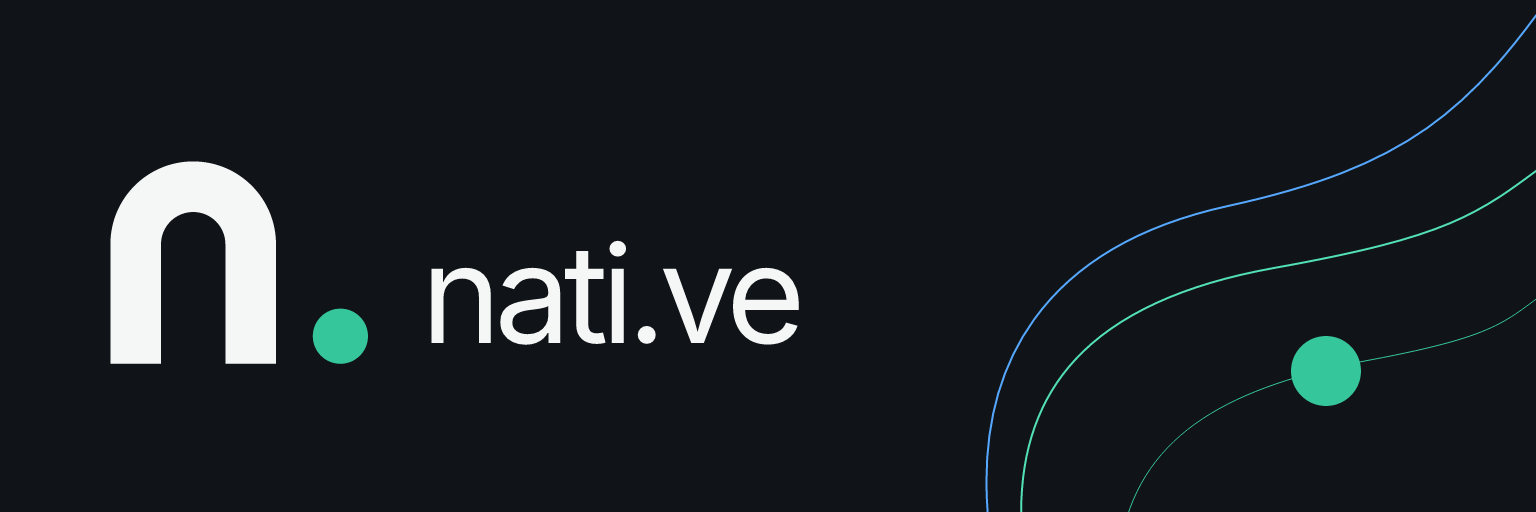
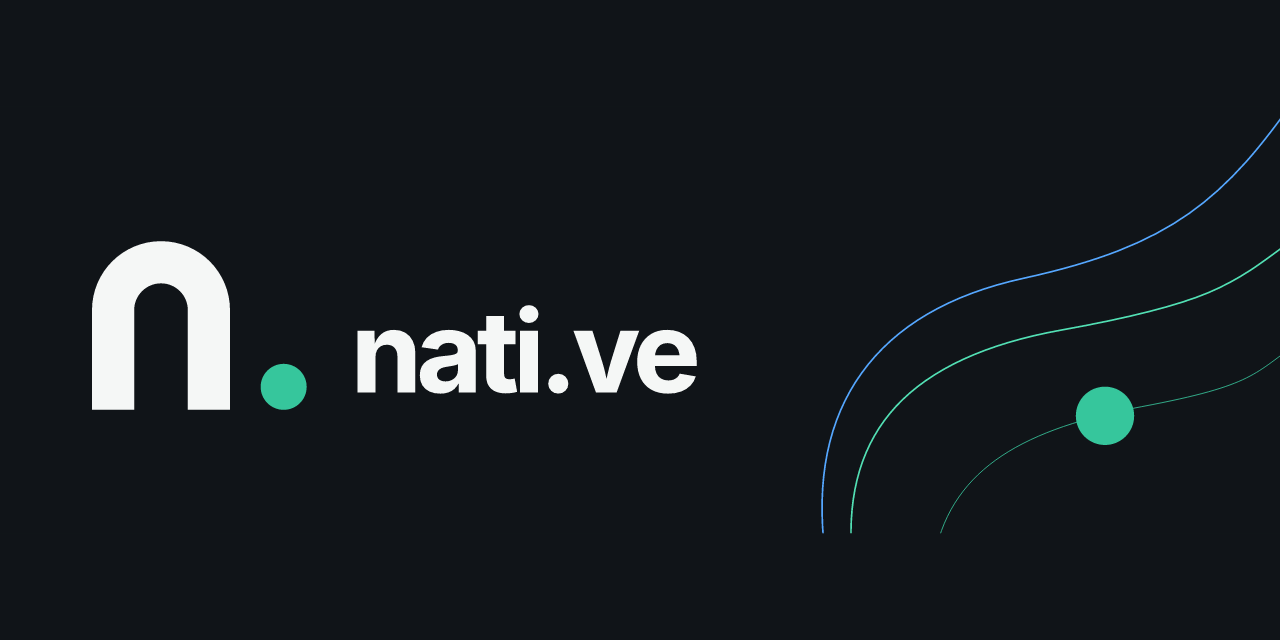
fix: preserve update compatibility and deterministic brand exports

diff --git a/ui/src/commonMain/kotlin/dev/obiente/nextcloudnative/app/ProjectNewsAndUpdates.kt b/ui/src/commonMain/kotlin/dev/obiente/nextcloudnative/app/ProjectNewsAndUpdates.kt
@@ -414,18 +414,18 @@ fun validateAndroidDirectRelease(
     )
     val tag = release.releaseTag(expectedChannel)
     require(
-        metadataUrl == expectedChannel.manifestUrl() ||
-            metadataUrl ==
+        metadataUrl.canonicalReleaseRepositoryUrl() == expectedChannel.manifestUrl() ||
+            metadataUrl.canonicalReleaseRepositoryUrl() ==
             "https://github.com/obiente/native/releases/download/$tag/update-manifest.json",
     )
     require(
-        release.apkUrl.hasCanonicalPathUnder(
+        release.apkUrl.canonicalReleaseRepositoryUrl().hasCanonicalPathUnder(
             "https://github.com/obiente/native/releases/download/$tag/",
             trailingSlash = false,
         ) && release.apkUrl.endsWith(".apk"),
     )
     require(
-        release.releaseNotesUrl ==
+        release.releaseNotesUrl.canonicalReleaseRepositoryUrl() ==
             "https://github.com/obiente/native/releases/tag/$tag",
     )
     validateAppUpdateChanges(release.versionCode, release.changes)
@@ -483,13 +483,13 @@ fun validateDesktopUpdateManifest(
     )
     val tag = releaseTag(expectedChannel, manifest.versionName)
     require(
-        metadataUrl == expectedChannel.desktopManifestUrl() ||
-            metadataUrl ==
+        metadataUrl.canonicalReleaseRepositoryUrl() == expectedChannel.desktopManifestUrl() ||
+            metadataUrl.canonicalReleaseRepositoryUrl() ==
             "https://github.com/obiente/native/releases/download/" +
             "$tag/desktop-update-manifest.json",
     )
     require(
-        manifest.releaseNotesUrl ==
+        manifest.releaseNotesUrl.canonicalReleaseRepositoryUrl() ==
             "https://github.com/obiente/native/releases/tag/$tag",
     )
     validateAppUpdateChanges(manifest.versionCode, manifest.changes)
@@ -507,7 +507,7 @@ fun validateDesktopUpdateManifest(
         require(asset.size in 1..MAX_DESKTOP_UPDATE_PACKAGE_BYTES)
         require(asset.sha256.isSha256())
         require(
-            asset.url.hasCanonicalPathUnder(
+            asset.url.canonicalReleaseRepositoryUrl().hasCanonicalPathUnder(
                 "https://github.com/obiente/native/releases/download/$tag/",
                 trailingSlash = false,
             ) && asset.url.endsWith(".${asset.format}"),
@@ -534,15 +534,25 @@ private fun validateAppUpdateChanges(versionCode: Long, changes: List<AppUpdateC
     }
 }
 
+private fun String.canonicalReleaseRepositoryUrl(): String {
+    val legacyPrefixes = listOf(
+        "https://github.com/Obiente/nc-native/releases/",
+        "https://github.com/Obiente/native/releases/",
+    )
+    val prefix = legacyPrefixes.firstOrNull(::startsWith) ?: return this
+    return "https://github.com/obiente/native/releases/" + removePrefix(prefix)
+}
+
 fun isCanonicalDesktopUpdateManifestUrl(
     url: String,
     channel: AndroidUpdateChannel,
 ): Boolean {
+    val canonicalUrl = url.canonicalReleaseRepositoryUrl()
     if (!channel.available) return false
-    if (url == channel.desktopManifestUrl()) return true
+    if (canonicalUrl == channel.desktopManifestUrl()) return true
     val prefix = "https://github.com/obiente/native/releases/download/"
-    if (!url.hasCanonicalPathUnder(prefix, trailingSlash = false)) return false
-    val path = url.removePrefix(prefix).split('/')
+    if (!canonicalUrl.hasCanonicalPathUnder(prefix, trailingSlash = false)) return false
+    val path = canonicalUrl.removePrefix(prefix).split('/')
     return path.size == 2 &&
         path[0].matches(channel.releaseTagPattern()) &&
         path[1] == "desktop-update-manifest.json"
@@ -561,11 +571,12 @@ fun isCanonicalAndroidUpdateManifestUrl(
     url: String,
     channel: AndroidUpdateChannel,
 ): Boolean {
+    val canonicalUrl = url.canonicalReleaseRepositoryUrl()
     if (!channel.available) return false
-    if (url == channel.manifestUrl()) return true
+    if (canonicalUrl == channel.manifestUrl()) return true
     val prefix = "https://github.com/obiente/native/releases/download/"
-    if (!url.hasCanonicalPathUnder(prefix, trailingSlash = false)) return false
-    val path = url.removePrefix(prefix).split('/')
+    if (!canonicalUrl.hasCanonicalPathUnder(prefix, trailingSlash = false)) return false
+    val path = canonicalUrl.removePrefix(prefix).split('/')
     return path.size == 2 &&
         path[0].matches(channel.releaseTagPattern()) &&
         path[1] == "update-manifest.json"

diff --git a/ui/src/commonTest/kotlin/dev/obiente/nextcloudnative/app/ReleaseRepositoryCompatibilityTest.kt b/ui/src/commonTest/kotlin/dev/obiente/nextcloudnative/app/ReleaseRepositoryCompatibilityTest.kt
@@ -1,0 +1,85 @@
+package dev.obiente.nextcloudnative.app
+
+import kotlinx.serialization.encodeToString
+import kotlinx.serialization.json.Json
+import kotlin.test.Test
+import kotlin.test.assertEquals
+import kotlin.test.assertFailsWith
+
+class ReleaseRepositoryCompatibilityTest {
+    private val tag = "nightly-20260731-1543-run358-02200472"
+    private val channel = AndroidUpdateChannel.Nightly
+
+    private fun android(repository: String) = AndroidDirectRelease(
+        schemaVersion = 1, channel = channel.manifestChannel,
+        versionName = tag, versionCode = 20_002_921,
+        packageName = "dev.obiente.nextcloudnative", minimumAndroidSdk = 26,
+        apkUrl = "https://github.com/$repository/releases/download/$tag/app.apk",
+        apkSize = 123_456, apkSha256 = "a".repeat(64),
+        signingCertificateSha256Digests = listOf("b".repeat(64)),
+        releaseNotesUrl = "https://github.com/$repository/releases/tag/$tag",
+    )
+
+    private fun desktop(repository: String) = DesktopUpdateManifest(
+        schemaVersion = 1, channel = channel.manifestChannel,
+        versionName = tag, versionCode = 20_002_921, packageVersion = "1.0.2921",
+        releaseNotesUrl = "https://github.com/$repository/releases/tag/$tag",
+        assets = listOf(DesktopUpdateAsset(
+            platform = "linux", format = "deb", architecture = "x86_64",
+            url = "https://github.com/$repository/releases/download/$tag/app.deb",
+            size = 123_456, sha256 = "a".repeat(64),
+        )),
+    )
+
+    @Test
+    fun immutableAndPointerManifestsAcceptBothRepositoriesAndPreserveAssetUrls() {
+        for (repository in listOf("Obiente/nc-native", "Obiente/native", "obiente/native")) {
+            for (manifestTag in listOf(tag, "channel-nightly")) {
+                val root = "https://github.com/$repository/releases/download/$manifestTag/"
+                val android = android(repository)
+                assertEquals(android, parseAndroidDirectRelease(
+                    Json.encodeToString(android).encodeToByteArray(),
+                    root + "update-manifest.json", channel,
+                ))
+                val desktop = desktop(repository)
+                val parsed = parseDesktopDirectRelease(
+                    Json.encodeToString(desktop).encodeToByteArray(),
+                    root + "desktop-update-manifest.json", channel, "linux", "deb", "x86_64",
+                )
+                assertEquals(desktop.assets.single(), parsed.asset)
+                assertEquals(desktop.releaseNotesUrl, parsed.releaseNotesUrl)
+            }
+        }
+    }
+
+    @Test
+    fun legacyRepositorySupportDoesNotAcceptOtherOriginsOrNoncanonicalPaths() {
+        val release = android("Obiente/nc-native")
+        val manifest = desktop("Obiente/nc-native")
+        val root = "https://github.com/Obiente/nc-native/releases/download/$tag/"
+        for (url in listOf(
+            root.replace("github.com", "github.com.example.org") + "app.apk",
+            root.replace("Obiente/nc-native", "other/nc-native") + "app.apk",
+            root.replace("nc-native/", "nc-native-extra/") + "app.apk",
+            root.replace("https:", "http:") + "app.apk",
+            root + "../app.apk", root + "%2e%2e/app.apk", root + "app.apk?download=1",
+        )) {
+            assertFailsWith<IllegalArgumentException>(url) {
+                validateAndroidDirectRelease(release.copy(apkUrl = url), channel)
+            }
+            assertFailsWith<IllegalArgumentException>(url) {
+                validateDesktopUpdateManifest(
+                    manifest.copy(assets = listOf(manifest.assets.single().copy(url = url.replace(".apk", ".deb")))),
+                    channel, channel.desktopManifestUrl(),
+                )
+            }
+        }
+        assertFailsWith<IllegalArgumentException> {
+            validateAndroidDirectRelease(release.copy(releaseNotesUrl = release.releaseNotesUrl + "/extra"), channel)
+        }
+        assertFailsWith<IllegalArgumentException> {
+            parseAndroidDirectRelease(Json.encodeToString(release).encodeToByteArray(),
+                root + "update-manifest.json?token=example", channel)
+        }
+    }
+}

diff --git a/website/src/server-metadata.js b/website/src/server-metadata.js
@@ -122,7 +122,7 @@ export function socialImageDetailsFor(metadata) {
     url: socialImageFor(metadata),
     alt:
       metadata.imageAlt ??
-      "nati.ve desktop and mobile clients connected to Nextcloud",
+      "nati.ve wordmark with mint and blue curves on charcoal",
     width: metadata.imageWidth ?? 1280,
     height: metadata.imageHeight ?? 640,
     type: "image/png",

diff --git a/design/README.md b/design/README.md
@@ -12,7 +12,9 @@ The tagline is "Your cloud, natively." The repository is
 - [Repository banner](brand/banner.svg): charcoal, mint and blue.
 
 These SVG files are the authoritative masters. Their named elements remain
-editable; wordmarks use Inter with Arial fallback. The website uses SVG and
+editable. The text wordmark uses Inter with Arial fallback; the banner wordmark
+uses paths outlined from the bundled Inter at weight 750, so its exports do not
+depend on installed fonts. The website uses SVG and
 Compose renders the same path geometry as an ImageVector. Android adaptive
 launchers use a vector drawable. PNG/ICO exports are only for platforms and
 social preview consumers that require raster images. Product screenshots
@@ -28,6 +30,9 @@ node tools/generate-native-icons.mjs
 The generator uses the locked resvg dependency and exports the native vector,
 Android vector and legacy launchers, desktop icons, website icons and social
 preview images. Edit the SVG master rather than generated path data.
+The generated [social preview vector](brand/social-preview.svg) frames the banner
+at 1280 by 640, matching the website's Open Graph dimensions. Rasterization
+disables system fonts; preserve the banner's wordmark as vector paths.
 
 ## Shared visual language
 
@@ -78,3 +83,8 @@ The frozen news-feed-v1 contract retains its legacy URLs; new clients accept
 both canonical article/image origins. Update manifest fields and asset names
 remain unchanged. DNS, deployment, GitHub social-preview settings and release
 publication are separate operational steps.
+
+Release scripts use the renamed repository for GitHub API operations, while
+`tools/release-repository.sh` retains `Obiente/nc-native` in v1 manifest URLs
+for installed clients. New Android and desktop clients accept both narrowly
+scoped repository URL prefixes without changing the original download URLs.
